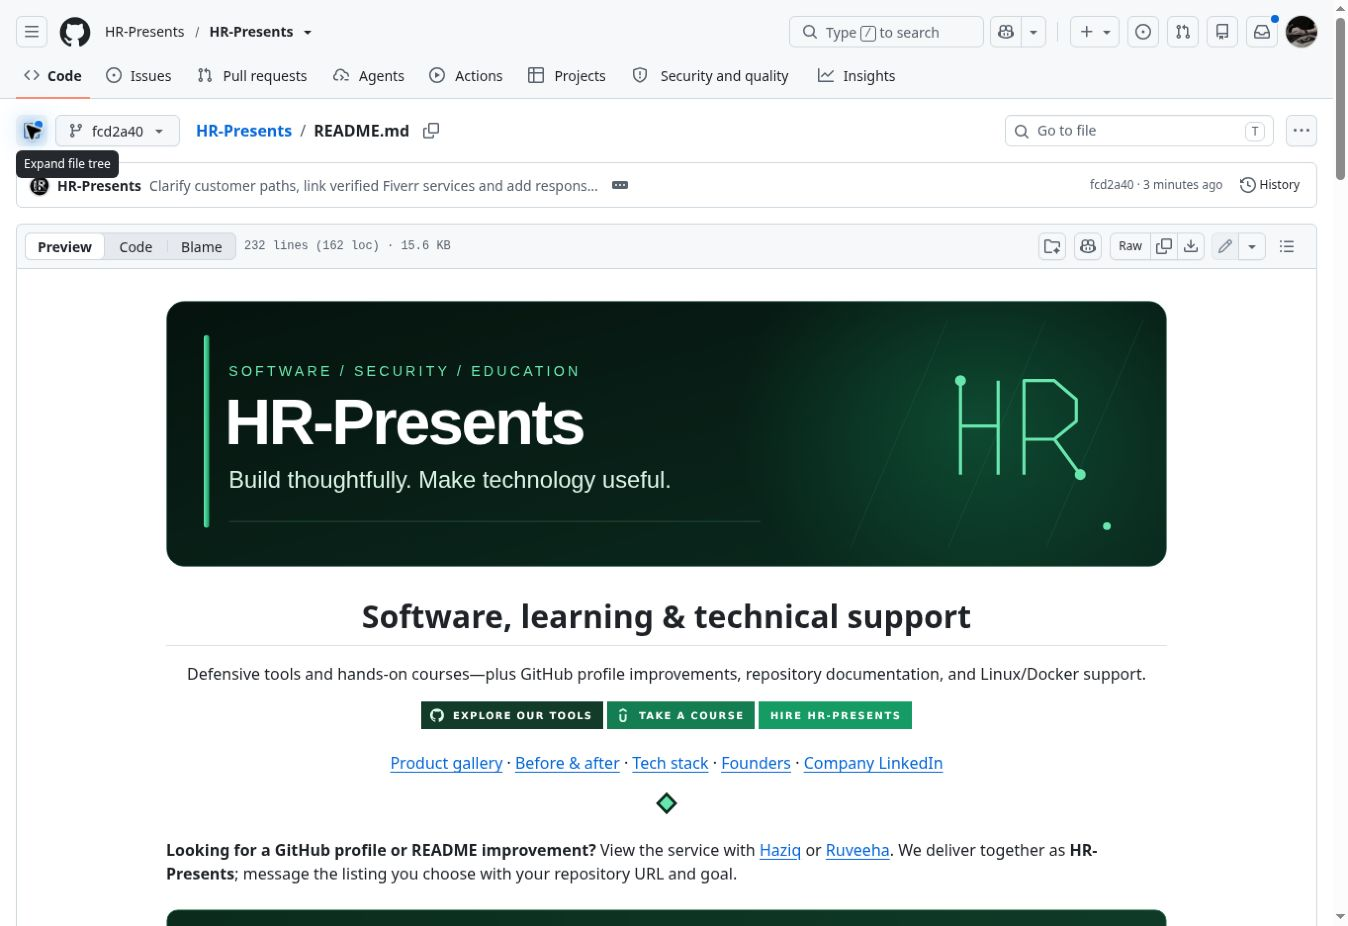
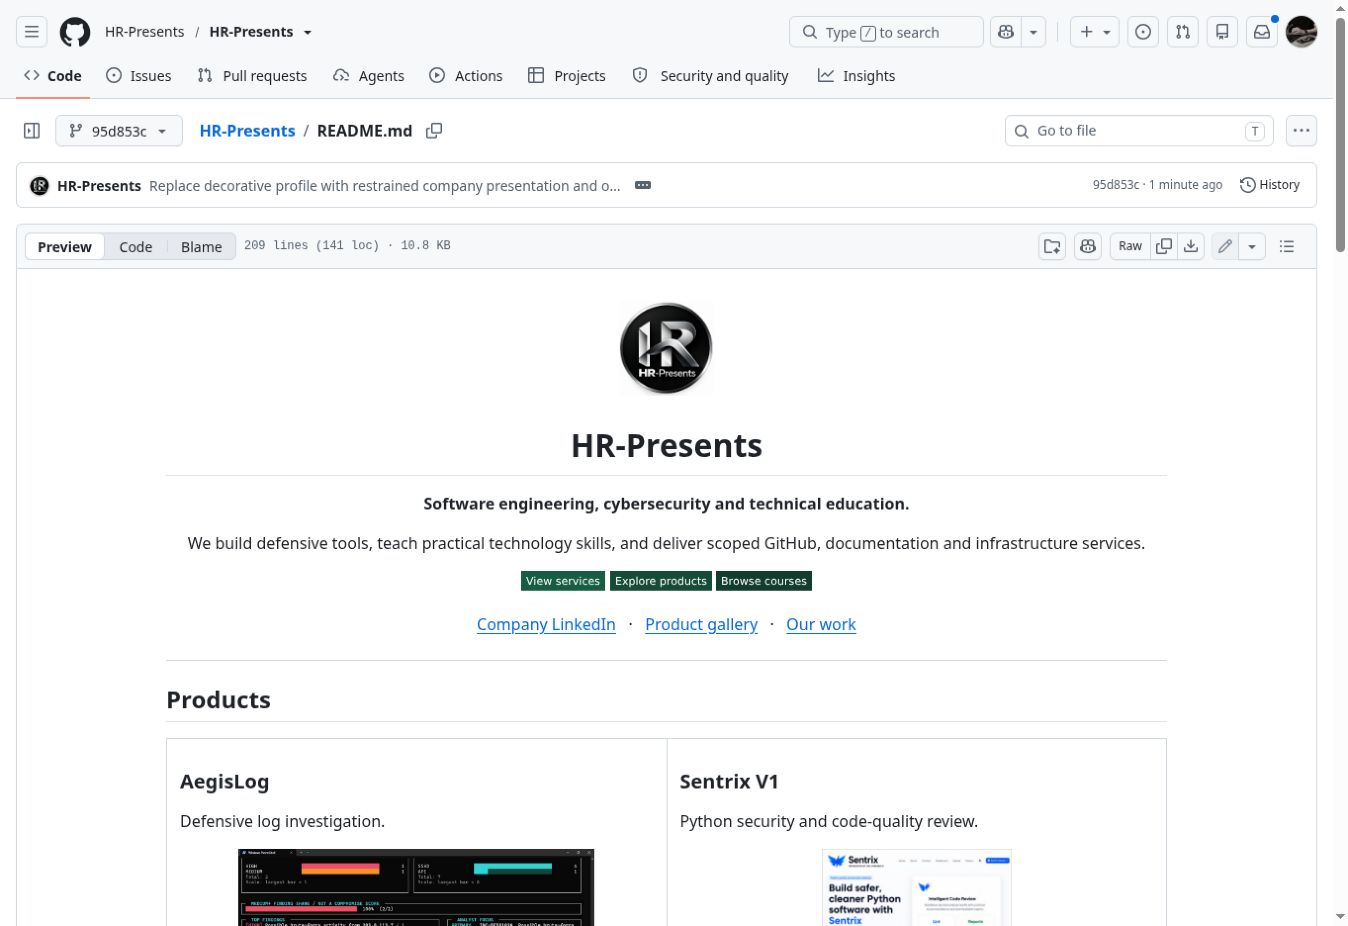
Align design evidence with the restrained company profile

diff --git a/profile-redesign-case-study.md b/profile-redesign-case-study.md
@@ -1,50 +1,38 @@
-# Case study: HR-Presents’ own GitHub profile
+# HR-Presents profile redesign
 
-[← Company profile](README.md) · [Services](README.md#services)
+[Company profile](README.md) · [Services](README.md#services)
 
-This example uses **our own company profile**, delivered under the shared HR-Presents identity of Haziq Afzal and Ruveeha Ashfaq. It demonstrates presentation and documentation work, rather than a customer testimonial or a claim about sales, hiring or engagement outcomes.
+An example of our GitHub presentation and documentation work using our own company profile. Haziq Afzal and Ruveeha Ashfaq collaborate under HR-Presents. This is a company-owned example, not a customer testimonial or a claim about sales, hiring or engagement outcomes.
 
 ## Before and after
 
-Both images are genuine GitHub screenshots captured on **29 October 2026**, in the same browser viewport with the file tree collapsed. They show the opening of the README at the linked source revisions. Click an image to inspect that revision; open the image file for a larger screenshot.
+Genuine GitHub screenshots, captured on 29 October 2026. Both use GitHub’s file preview with the file tree collapsed. The surrounding interface and revision labels remain visible.
 
-| Earlier README | Improved README |
+| Earlier presentation | Revised presentation |
 | --- | --- |
-| [![Earlier HR-Presents README: text-led introduction and comparison table](assets/case-study/profile-before.jpg)](https://github.com/HR-Presents/HR-Presents/blob/c8e1b9044bb1aa3e36c54650ef41c11bfa6e7a07/README.md) | [![Improved HR-Presents README: emerald identity, specific offer and three customer paths](assets/case-study/profile-after.jpg)](https://github.com/HR-Presents/HR-Presents/blob/fcd2a4087cf972d2c05735c2fe340ddd4b65ca40/README.md) |
-| [Source revision: c8e1b90](https://github.com/HR-Presents/HR-Presents/blob/c8e1b9044bb1aa3e36c54650ef41c11bfa6e7a07/README.md) · [Full-size screenshot](assets/case-study/profile-before.jpg) | [Source revision: fcd2a40](https://github.com/HR-Presents/HR-Presents/blob/fcd2a4087cf972d2c05735c2fe340ddd4b65ca40/README.md) · [Full-size screenshot](assets/case-study/profile-after.jpg) |
+| [![Earlier HR-Presents README](assets/case-study/profile-before.jpg)](https://github.com/HR-Presents/HR-Presents/blob/c8e1b9044bb1aa3e36c54650ef41c11bfa6e7a07/README.md) | [![Revised HR-Presents README with original company branding and a restrained layout](assets/case-study/profile-after.jpg)](https://github.com/HR-Presents/HR-Presents/blob/95d853cd256c3b4ee63cb61e36dd4f4873314d18/README.md) |
+| [Earlier revision](https://github.com/HR-Presents/HR-Presents/blob/c8e1b9044bb1aa3e36c54650ef41c11bfa6e7a07/README.md) · [Full-size screenshot](assets/case-study/profile-before.jpg) | [Revised content](https://github.com/HR-Presents/HR-Presents/blob/95d853cd256c3b4ee63cb61e36dd4f4873314d18/README.md) · [Full-size screenshot](assets/case-study/profile-after.jpg) |
 
-The screenshots retain GitHub’s surrounding interface and revision labels. They have not been retouched. They compare layout and navigation; they are not measured conversion results.
+These screenshots show presentation and navigation changes. They have not been retouched and are not measured conversion results.
 
-## What changed
+## The work
 
-| Area | Earlier presentation | Improved approach |
-| --- | --- | --- |
-| Opening | Broad technical tagline and repeated company identity | Specific description of software, courses and technical services |
-| Customer paths | General links | Explore tools, take a course or hire HR-Presents |
-| Products | Text-based comparison | Consistent product cards, original previews, primary actions and a full-size gallery |
-| Courses | Text descriptions | Original Udemy covers, course titles and direct enrollment-page links |
-| Services | Broad offer list and generic profiles | Deliverables, direct matching Fiverr listings and a four-step process |
-| Technical depth | Long expanded content | Linked background material and grouped tech badges |
-| Narrow graphics | Desktop artwork scaled down | Picture sources with larger-text SVG variants for screens up to 600 px |
+- Used the original company logo, a muted emerald accent palette and standard text headings.
+- Organized products around original media, concise descriptions and primary actions.
+- Added direct links to matching services and described the scope and handover process.
+- Presented both courses with their original Udemy covers and enrollment-page links.
+- Kept technical detail, source context and product limitations in linked documentation.
 
-## Typical handover for similar work
+[Original product and course media](assets/media/SOURCES.md) · [Product gallery](product-gallery.md) · [README history](https://github.com/HR-Presents/HR-Presents/commits/main/README.md)
 
-The agreed scope may include editable Markdown, selected SVG graphics, organized project links, installation or usage sections, and handover notes. Deliverables, price and timing are confirmed before ordering; package limits on the selected listing apply.
+## Scope and verification
 
-## Evidence and sources
+Checks cover repository files, image availability, navigation, structure and selected external destinations. The revised layout was inspected in GitHub’s desktop renderer. A genuine 390 px browser viewport test remains unverified.
 
-- [Earlier README](https://github.com/HR-Presents/HR-Presents/blob/c8e1b9044bb1aa3e36c54650ef41c11bfa6e7a07/README.md)
-- [Captured improved README](https://github.com/HR-Presents/HR-Presents/blob/fcd2a4087cf972d2c05735c2fe340ddd4b65ca40/README.md)
-- [Current profile](README.md) and [change history](https://github.com/HR-Presents/HR-Presents/commits/main/README.md)
-- [Original product and course media](assets/media/SOURCES.md)
-- [Full-size product gallery](product-gallery.md)
+The six linked Fiverr service pages were checked successfully on 29 October 2026. Third-party destinations can change.
 
-Checks cover source media, repository file availability, navigation targets, structure and selected external links. All six linked Fiverr service pages responded successfully when checked on 29 October 2026.
+For similar work, agreed deliverables may include editable Markdown, selected graphics, project navigation, installation or usage sections and handover notes. Scope, fixed price, package limits and timing are confirmed before ordering.
 
-The rendered GitHub README was checked at a 1363 px desktop viewport: no horizontal page overflow was detected, and all ten responsive picture sources for screens up to 600 px remained present after GitHub rendering. Narrow SVG variants were also rendered at phone content widths for legibility. A genuine 390 px browser viewport was unavailable, so full mobile-browser behavior remains unverified.
+## Contact
 
-## Start a similar project
-
-Share your repository URL, desired result and target date through either listing. Haziq and Ruveeha deliver together as HR-Presents; choose one conversation for the order.
-
-**[Haziq’s GitHub & README service](https://www.fiverr.com/haziq_afzal/enhance-your-github-profile-and-repository-readme)** · **[Ruveeha’s GitHub & README service](https://www.fiverr.com/ruveehaashfaq/redesign-your-github-profile-and-repository-readme)**
+[Haziq’s GitHub service](https://www.fiverr.com/haziq_afzal/enhance-your-github-profile-and-repository-readme) · [Ruveeha’s GitHub service](https://www.fiverr.com/ruveehaashfaq/redesign-your-github-profile-and-repository-readme) · [Company LinkedIn](https://www.linkedin.com/company/hr-presents/)
